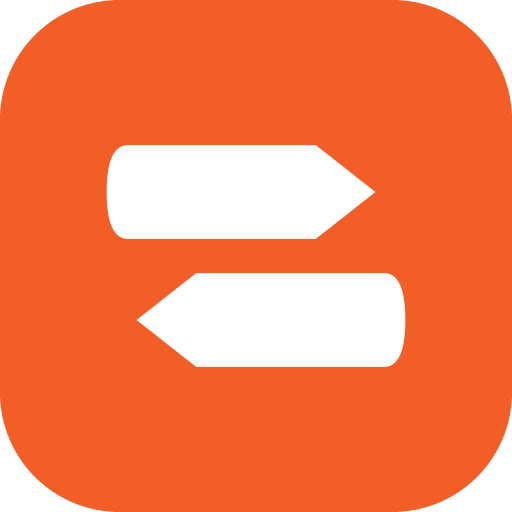
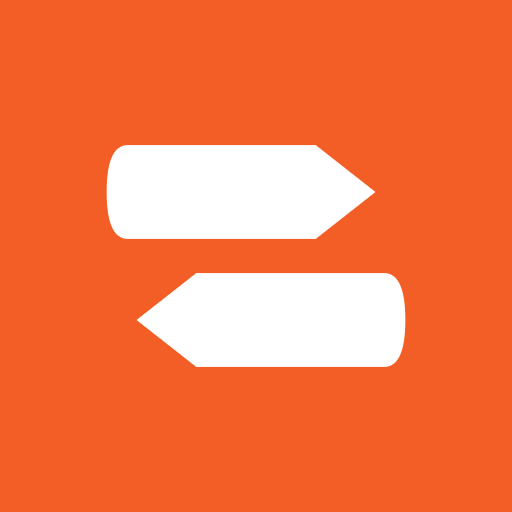
b301 아이콘 검은 모서리 · 스플래시 두 장 어긋남 · 여행 목록 사진
── 홈 화면 아이콘 아래에 검정이 끼던 것 ──
네 아이콘 **모두 모서리가 투명**(알파 0)이었습니다. 이미 둥글게 깎인
그림을 보내고 있었던 것입니다. iOS 는 아이콘을 **자기가** 깎고, 남은
투명한 곳을 검정으로 채웁니다. 우리가 깎은 자리와 iOS 가 깎는 자리가
어긋난 만큼 검정이 비쳤습니다.
모서리까지 꽉 찬 불투명 정사각형으로 다시 만들었습니다(tools/gen-icons.ps1).
maskable 은 안드로이드가 원·물방울로도 깎으므로 마크를 80% 안에 넣습니다.

⚠ 만들면서 **검사가 거짓말을 했습니다.** 저장이 실패했는데(파일을 연 채로
  같은 이름에 쓰면 GDI+ 오류) 확인은 메모리 속 그림을 봐서 "알파=255" 로
  통과시켰습니다. 저장한 파일을 **다시 읽어서** 보게 고쳤습니다.

── 스플래시 두 장이 디졸브되며 어긋나 보이던 것 ──
iOS 는 런치 이미지 → 웹뷰로 넘어갈 때 **항상 크로스페이드**합니다.
CSS 로 못 없앱니다. 두 장이 같으면 아무 일 없는 것처럼 보이는데,
화면 스플래시는 블록이 196px(88+18+57+18+15)이고 PNG 는 168px 이었습니다
(Dongle 잉크 높이 0.42배로 셌습니다). 로고가 14px 어긋났습니다.
  · PNG 를 상자 높이로 다시 그렸습니다(196)
  · 화면 스플래시가 **그 PNG 를 그대로 깔게** 했습니다 — 물리적으로 같은
    그림이라 어긋날 자리가 없습니다. 못 받으면 안의 SVG·글자로 돌아갑니다.
안드로이드·PC 는 맞는 그림이 없어 예전처럼 SVG·글자로 나옵니다.

── 여행 목록에 도시 사진이 안 뜨던 것 ──
`t.cities?.image_url` **하나만** 봤습니다. 그건 여행에 직접 붙은 도시의
사진이라, 우리 목록에 없는 곳으로 만든 여행('삼척')은 늘 비었습니다.
나라 대체는 tripPhoto() 에만 있었고 목록은 그걸 안 썼습니다.
fillTripPhotos() 로 tripPhoto() 와 같은 순서(구간 도시 › 나라 대표)를
따르되, 줄마다 부르지 않고 **두 번**에 끝냅니다 — tripPhoto() 는 여행
하나에 최대 3번이라 열 개면 서른 번입니다.

diff --git a/app.js b/app.js
@@ -6,7 +6,7 @@
  *   app.js    ← 여기. 나머지 전부
  */
 import { WORLD_PATHS } from './world.js';
-import { sb } from './db.js?v=b300';
+import { sb } from './db.js?v=b301';
 
 /* ── 초대 링크가 지나가는 자리 ────────────────────────────────────────
  * ⚠ **앱 주소가 아닙니다.** 앱은 GitHub Pages 에 올라간 정적 index.html
@@ -23,12 +23,12 @@ import { sb } from './db.js?v=b300';
  *
  * 예전에 보낸 `?join=` 링크도 그대로 됩니다 — 받는 쪽은 안 건드렸습니다. */
 const JOIN_URL = 'https://loyal-bat-8481.honeychelsea123.deno.net/';
-import { $, esc, toast, copyText } from './dom.js?v=b300';
-import { starHtml, paintStars, markRated } from './stars.js?v=b300';
+import { $, esc, toast, copyText } from './dom.js?v=b301';
+import { starHtml, paintStars, markRated } from './stars.js?v=b301';
 import { fail, offNote, cacheGet, cacheSet, netIsDown, netTimeout, isOffline,
          write, flushQueue, drawOffbar, setOnDrained,
-         setErrLogger, setReadOnly, NOROW } from './net.js?v=b300';
-import { loadAdmin } from './admin.js?v=b300';
+         setErrLogger, setReadOnly, NOROW } from './net.js?v=b301';
+import { loadAdmin } from './admin.js?v=b301';
 /* 취향으로 다음 도시를 고르는 계산. **AI 를 안 씁니다** — 오프라인에서도
    돌아야 하고, 같은 자료에는 늘 같은 답이 나와야 합니다(rec.js 맨 위 참고). */
 /* ⚠ **화면은 아직 이걸 하나도 안 씁니다.** `__recCheck` 만 씁니다.
@@ -36,8 +36,8 @@ import { loadAdmin } from './admin.js?v=b300';
    확실한 것만 고르는 `certainPicks` 는 홈에 카드로 붙였다가 뺐습니다(b291) —
    '가보고 싶은 곳' 보관함에 이미 있는 걸 홈에 한 번 더 보여줄 뿐이었습니다.
    계산 자체는 멀쩡하니 남겨둡니다. 쓸 자리가 생기면 여기서 가져다 쓰면 됩니다. */
-import { recommend, tasteOf, scoreCity, certainPicks } from './rec.js?v=b300';
-import { arm, disarm, syncSheets, setSheetCloser, onSwipeX } from './ui.js?v=b300';
+import { recommend, tasteOf, scoreCity, certainPicks } from './rec.js?v=b301';
+import { arm, disarm, syncSheets, setSheetCloser, onSwipeX } from './ui.js?v=b301';
 /* 지금 열려 있는 여행. 이름은 **살아 있는 연결**이라 읽는 쪽은 예전 그대로입니다.
    값을 넣는 것은 set* 를 지나가야 합니다 — 여기서 `trip = x` 라고 쓰면
    브라우저가 문법 오류를 내고 앱이 아예 안 뜹니다. 그게 이 분리의 핵심입니다. */
@@ -46,21 +46,21 @@ import { trip, plans, legs, members, expenses, bookings, transitLines,
          setTrip, clearTrip, setTripCloser,
          setPlans, setLegs, setMembers, setExpenses, setBookings, setTransitLines,
          setPickedDay, setTab, setCatFilter, setSettleOn, setTodayOn,
-         setEditPlanId } from './trip.js?v=b300';
+         setEditPlanId } from './trip.js?v=b301';
 /* 도시 평가. 네 화면이 같이 쓰는 자료라 한 곳이 어긋나면 넷이 같이 어긋납니다. */
 import { myRates, cityStat, visited, justRated, rateFilter,
          setRateData, setVisited, applyRate, putCityStat,
-         clearJustRated, putRateFilter, clearRates } from './rate.js?v=b300';
+         clearJustRated, putRateFilter, clearRates } from './rate.js?v=b301';
 /* 도시 사전과 찾기. 한 번 받으면 안 바뀝니다 — 여행이 바뀌어도 사람이 바뀌어도. */
 import { cities, countryName, countryInfo, continentOf,
-         useCities, addCity, search } from './cities.js?v=b300';
+         useCities, addCity, search } from './cities.js?v=b301';
 /* 여행 비서가 방금 내놓은 카드. 화면의 번호가 여기를 찾아가므로 통째로 갈아끼웁니다. */
 import { suggested, aiTripId,
-         setSuggested, clearSuggested, setAiTripId } from './ai.js?v=b300';
+         setSuggested, clearSuggested, setAiTripId } from './ai.js?v=b301';
 import { PERSONA_ICON, REPORT_ICON, PERSONA_BG, REPORT_BG,
-         askImageSize, personaStats, judgePersona } from './card.js?v=b300';
+         askImageSize, personaStats, judgePersona } from './card.js?v=b301';
 import { distKm, travel, hop, settleMath, dateRange, dayLabel, localTime, money,
-         legAt, legNear, legFirst, travelMinutes, NO_CENTS } from './calc.js?v=b300';
+         legAt, legNear, legFirst, travelMinutes, NO_CENTS } from './calc.js?v=b301';
 
 /* 지도 좌표를 제자리에 넣습니다. 쓰는 쪽(핀 · 발자국 미니지도)보다 먼저여야 합니다.
    **이 줄은 진입점에 있어야 합니다** — 모듈이 아니라 화면에 쓰는 일이고,
@@ -5520,13 +5520,63 @@ $('tsbtns').addEventListener('click', async e => {
   if (r.error) fail(r.error, 'trip');
 });
 
+/* ── 여행 목록의 사진 ────────────────────────────────────────────────
+ * 전에는 `t.cities?.image_url` **하나만** 봤습니다. 그건 여행에 직접 붙은
+ * 도시(`trips.city_id`)의 사진이라, 우리 목록에 없는 곳으로 만든 여행은
+ * ('삼척') 늘 비어서 색 칸에 첫 글자만 떴습니다.
+ *
+ * 고르는 순서는 `tripPhoto()` 와 **같습니다**(구간 도시 › 나라 대표).
+ * 목적지 이름으로 찾는 단계는 뺐습니다 — 이름이 맞으면 애초에 `city_id` 가
+ * 붙어 있어서 첫 줄에서 걸립니다.
+ *
+ * ⚠ **줄마다 부르지 않습니다.** `tripPhoto()` 는 여행 하나에 질의를 최대
+ *   3번 합니다. 목록이 열 개면 서른 번입니다. 여기서는 빠진 것만 모아
+ *   **두 번**에 끝냅니다(구간 한 번, 나라 대표 한 번).
+ *
+ * ⚠ 이 사진은 그 사람이 가는 곳이 아닐 수 있습니다 — 삼척 여행에 강릉
+ *   사진이 걸립니다. 사진은 분위기고, 어디로 가는지는 **글자**가 말합니다.
+ *   `tripPhoto()` 머리말에 같은 이야기를 적어뒀습니다. */
+async function fillTripPhotos(rows){
+  const need = (rows || []).filter(t => !t.cities?.image_url);
+  if (!need.length) return;
+
+  const lg = await netTimeout(sb.from('trip_legs')
+    .select('trip_id,country,start_date,cities(image_url)')
+    .in('trip_id', need.map(t => t.id)).order('start_date'));
+
+  const byTrip = {}, legCountry = {};
+  for (const l of (lg.data || [])){
+    if (!byTrip[l.trip_id] && l.cities?.image_url) byTrip[l.trip_id] = l.cities.image_url;
+    if (!legCountry[l.trip_id] && l.country)       legCountry[l.trip_id] = l.country;
+  }
+
+  /* 구간에서 못 찾은 것만 나라로 갑니다. 나라는 겹치므로 한 번에 묻습니다. */
+  const rest = need.filter(t => !byTrip[t.id]);
+  const countries = [...new Set(rest.map(t => legCountry[t.id] || t.country).filter(Boolean))];
+  const rep = {};
+  if (countries.length){
+    /* 같은 여행은 열 때마다 같은 사진이어야 합니다 — 다르면 "내 여행"으로
+       안 읽힙니다. pop_rank › fame › 이름 순으로 **늘 같은 것**을 고릅니다. */
+    const c = await netTimeout(sb.from('cities')
+      .select('country,image_url,pop_rank,fame,name')
+      .in('country', countries).not('image_url', 'is', null)
+      .order('pop_rank', { ascending:true, nullsFirst:false })
+      .order('fame',     { ascending:true, nullsFirst:false })
+      .order('name',     { ascending:true }));
+    for (const row of (c.data || [])) if (!rep[row.country]) rep[row.country] = row.image_url;
+  }
+
+  for (const t of need) t._photo = byTrip[t.id] || rep[legCountry[t.id] || t.country] || null;
+}
+
 async function loadTrips(){
   /* RLS 가 참여 중인 것만 내려줍니다. 만든 사람이 owner 로 자동 등록되지
      않으면 방금 만든 여행조차 여기 안 나옵니다. */
   const today = todayYmd();
   let q = sb.from('trips')
     .select('id,title,destination,start_date,end_date,currency,timezone,' +
-            'transit_factor,city_id,cities(image_url),' +
+            /* `country` 는 사진 대체에 씁니다(아래 fillTripPhotos). */
+    'transit_factor,city_id,country,cities(image_url),' +
             'trip_members(user_id,role),trip_reviews(user_id,stars)');
   /* 날짜가 지나면 저절로 "다녀온"으로 넘어갑니다 — 손으로 옮길 일이 없습니다. */
   if (tripFilter === 'past')
@@ -5546,7 +5596,8 @@ async function loadTrips(){
                return fail(error); }
     data = old; error = null; drawOffbar();
   } else {
-    cacheSet(ck, data);
+    await fillTripPhotos(data);
+    cacheSet(ck, data);   /* 사진까지 담아둡니다 — 비행기모드에서도 같은 줄이 나옵니다 */
     /* 목록에 있는 여행은 **열어본 적 없어도** 비행기모드에서 열려야 합니다.
        한 줄씩 미리 담아둡니다 — 목록을 받을 때 이미 필요한 값이 다 왔습니다.
        이걸 안 하면 "열어본 적 있는 여행만 열림"이 되는데,
@@ -5589,7 +5640,9 @@ async function loadTrips(){
       `<span class="tmore hide">${more}</span>`;
     /* 글자만 있으면 어느 여행인지 한눈에 안 들어옵니다.
        그 여행의 첫 도시 사진을 왼쪽에 답니다. 없으면 첫 글자만. */
-    const img = t.cities?.image_url;
+    /* `_photo` 는 fillTripPhotos 가 채웁니다 — 우리 도시 목록에 없는 곳으로
+       만든 여행('삼척')이 늘 빈 칸이던 것을 메웁니다. */
+    const img = t.cities?.image_url || t._photo;
     /* **사진이 없으면 회색 칸에 '삼' 한 글자만 떠 있었습니다.** 글자 하나가
        제목 왼쪽에 덩그러니 놓이면 제목을 두 번 읽는 것처럼 보입니다.
        홈 히어로가 쓰는 색(heroTint)을 그대로 깔면 같은 여행은 어디서나

diff --git a/index.html b/index.html
@@ -108,25 +108,25 @@ document.fonts?.load('700 1em Dongle').then(() => {
      스크립트와 모듈은 문서 순서대로 실행되므로 unpkg 가 매달리면 뒤에 있는
      app.js 가 **아예 실행되지 않았습니다** — 앱이 통째로 안 켜지고 부팅 실패
      상자만 남았습니다. 지도 하나 때문에 그럴 이유가 없습니다. -->
-<link rel="stylesheet" href="app.css?v=b300">
+<link rel="stylesheet" href="app.css?v=b301">
 <!-- app.js 가 아래 모듈들을 정적 import 합니다(?v= 로 버전 고정). 여기서도 참조를
      남겨야 checkBuild(app.js)·서비스워커(sw.js)의 "새 파일 다 받아진 뒤에만
      새로고침" 스캔이 index.html 글자만 훑어도 이것들을 놓치지 않습니다.
      **모듈을 새로 만들 때마다 여기 한 줄을 같이 더하세요.** -->
-<link rel="modulepreload" href="supabase.js?v=b300">
-<link rel="modulepreload" href="dom.js?v=b300">
-<link rel="modulepreload" href="db.js?v=b300">
-<link rel="modulepreload" href="calc.js?v=b300">
-<link rel="modulepreload" href="rec.js?v=b300">
-<link rel="modulepreload" href="stars.js?v=b300">
-<link rel="modulepreload" href="net.js?v=b300">
-<link rel="modulepreload" href="admin.js?v=b300">
-<link rel="modulepreload" href="ui.js?v=b300">
-<link rel="modulepreload" href="card.js?v=b300">
-<link rel="modulepreload" href="trip.js?v=b300">
-<link rel="modulepreload" href="rate.js?v=b300">
-<link rel="modulepreload" href="cities.js?v=b300">
-<link rel="modulepreload" href="ai.js?v=b300">
+<link rel="modulepreload" href="supabase.js?v=b301">
+<link rel="modulepreload" href="dom.js?v=b301">
+<link rel="modulepreload" href="db.js?v=b301">
+<link rel="modulepreload" href="calc.js?v=b301">
+<link rel="modulepreload" href="rec.js?v=b301">
+<link rel="modulepreload" href="stars.js?v=b301">
+<link rel="modulepreload" href="net.js?v=b301">
+<link rel="modulepreload" href="admin.js?v=b301">
+<link rel="modulepreload" href="ui.js?v=b301">
+<link rel="modulepreload" href="card.js?v=b301">
+<link rel="modulepreload" href="trip.js?v=b301">
+<link rel="modulepreload" href="rate.js?v=b301">
+<link rel="modulepreload" href="cities.js?v=b301">
+<link rel="modulepreload" href="ai.js?v=b301">
 </head>
 <body>
 <!-- ── 스플래시(런치 스크린) ────────────────────────────────────────
@@ -200,6 +200,38 @@ document.fonts?.load('700 1em Dongle').then(() => {
   var SPLASH_T0 = new Date().getTime(), SPLASH_MIN = 1100;
 
   /* 스스로 걷히는 길. app.js 가 부르는 hideSplash 와 같은 일을 합니다. */
+  /* ── iOS: 런치 이미지와 **같은 그림**을 깝니다 ────────────────────
+     iOS 는 런치 이미지에서 웹뷰로 넘어갈 때 **항상 크로스페이드**합니다.
+     CSS 로 못 없앱니다. 대신 두 장이 완전히 같으면 아무 일도 안 일어난
+     것처럼 보입니다.
+     전에는 여기서 SVG·글자로 다시 그렸는데, 블록 높이가 196(88+18+57+18+15)
+     인 반면 PNG 는 168 로 그려져 있어서 로고가 14px 어긋났고, 그 어긋남이
+     크로스페이드에서 그대로 보였습니다. 같은 그림을 쓰면 어긋날 자리가
+     없습니다.
+     맞는 그림이 없으면(안드로이드·PC) 아래 SVG·글자가 그대로 나옵니다 —
+     거기는 런치 이미지 자체가 없어서 이어붙일 것도 없습니다. */
+  (function(){
+    var sizes = ['440x956@3x','430x932@3x','428x926@3x','402x874@3x','393x852@3x',
+                 '390x844@3x','375x812@3x','414x896@3x','414x896@2x',
+                 '375x667@2x','414x736@3x'];
+    var k = screen.width + 'x' + screen.height + '@' + Math.round(devicePixelRatio) + 'x';
+    if (sizes.indexOf(k) < 0) return;
+    var s = document.getElementById('splash');
+    if (!s) return;
+    s.style.backgroundImage = 'url("splash/' + k + '.png")';
+    s.style.backgroundSize = 'cover';
+    s.style.backgroundPosition = 'center';
+    /* 그림이 다 말하므로 안의 것은 감춥니다. **지우지는 않습니다** —
+       그림을 못 받으면(캐시가 비었고 연결도 없으면) 이걸 되살립니다. */
+    for (var i = 0; i < s.children.length; i++) s.children[i].style.visibility = 'hidden';
+    var probe = new Image();
+    probe.onerror = function(){
+      s.style.backgroundImage = 'none';
+      for (var i = 0; i < s.children.length; i++) s.children[i].style.visibility = '';
+    };
+    probe.src = 'splash/' + k + '.png';
+  })();
+
   window.__hideSplash = function(){
     var s = document.getElementById('splash');
     if (!s) return;
@@ -1457,7 +1489,7 @@ document.fonts?.load('700 1em Dongle').then(() => {
            **여기 프로필 맨 아래에만 둡니다.** 전에는 </main> 바로 앞에 있어서,
            보고 있는 탭이 무엇이든 그 아래에 곧장 붙어 목록 한가운데 떠 있는
            것처럼 보였습니다. 관리자가 일부러 찾아봐야 하는 자리로 옮깁니다. -->
-      <p class="foot hide" id="foot">화면 <code id="build">b300</code> · <span id="ms">—</span></p>
+      <p class="foot hide" id="foot">화면 <code id="build">b301</code> · <span id="ms">—</span></p>
     </div><!-- /setview -->
 
     <!-- 여행 상세 -->
@@ -1925,7 +1957,7 @@ document.fonts?.load('700 1em Dongle').then(() => {
   </div>
 </main>
 
-<script type="module" src="app.js?v=b300"></script>
+<script type="module" src="app.js?v=b301"></script>
 </body>
 </html>
 

diff --git a/admin.js b/admin.js
@@ -9,9 +9,9 @@
  * 화면을 뜯어도 남의 자료는 안 나옵니다. 서버 쪽 함수가 is_admin() 을
  * 확인하므로 여기서 막는 것은 그저 안 보여주는 것뿐입니다.
  */
-import { $, esc, toast, copyText } from './dom.js?v=b300';
-import { sb } from './db.js?v=b300';
-import { fail, netTimeout } from './net.js?v=b300';
+import { $, esc, toast, copyText } from './dom.js?v=b301';
+import { sb } from './db.js?v=b301';
+import { fail, netTimeout } from './net.js?v=b301';
 
 /* ── 관리자 대시보드 ────────────────────────────────────────────────
  * 표를 하나씩 열어보게 하면 결국 안 봅니다. 한 화면에 모읍니다.

diff --git a/ui.js b/ui.js
@@ -7,7 +7,7 @@
  *
  * 층: dom.js 만 씁니다. app.js 를 거꾸로 부르지 않습니다 —
  * 하나 필요한 것(AI 시트 닫기)은 setSheetCloser 로 받아 둡니다. */
-import { $ } from './dom.js?v=b300';
+import { $ } from './dom.js?v=b301';
 
 /* ── 좌우로 쓸기 ────────────────────────────────────────────────────
  * 상단의 구역 알약(일정·지출·준비·일행)은 화면 **왼쪽 위**에 있습니다.

diff --git a/db.js b/db.js
@@ -13,7 +13,7 @@
    멈추면 app.js 가 아예 실행되지 않습니다 — b227 에서 leaflet 을 뺀 것과 같은
    문제이고 이쪽은 앱 전체가 매달립니다. 판도 `@2` 라 조용히 바뀌었습니다.
    자세한 것은 supabase.js 머리말에. */
-import { createClient } from './supabase.js?v=b300';
+import { createClient } from './supabase.js?v=b301';
 
 const SUPABASE_URL = 'https://qahqqhjleqfrsjiixnas.supabase.co';
 const SUPABASE_KEY = 'sb_publishable_ymbrt_00OqzQjT3SrweZgQ_Lu0cw64V';

diff --git a/card.js b/card.js
@@ -8,7 +8,7 @@
  * 이 파일도 앱 전체를 알아야 합니다.
  *
  * 층: dom.js 만 씁니다. */
-import { $, esc, toast } from './dom.js?v=b300';
+import { $, esc, toast } from './dom.js?v=b301';
 
 /* ── 성향 카드 ───────────────────────────────────────────────────────
  * "나는 뭐로 나올까"가 궁금해서 평가를 더 하게 만드는 것이 목적입니다.

diff --git a/net.js b/net.js
@@ -18,8 +18,8 @@
  *
  * 밖에서 가져오는 것은 dom.js 와 db.js 뿐입니다. 둘 다 잎이라 순환이 없습니다.
  */
-import { $, toast } from './dom.js?v=b300';
-import { sb } from './db.js?v=b300';
+import { $, toast } from './dom.js?v=b301';
+import { sb } from './db.js?v=b301';
 
 /* 큐가 다 나간 뒤에 화면을 서버 값으로 맞추는 일은 app.js 가 압니다.
    여기서 trip 이나 loadPlans 를 직접 부르면 net → app 으로 거꾸로 기대게 되어
